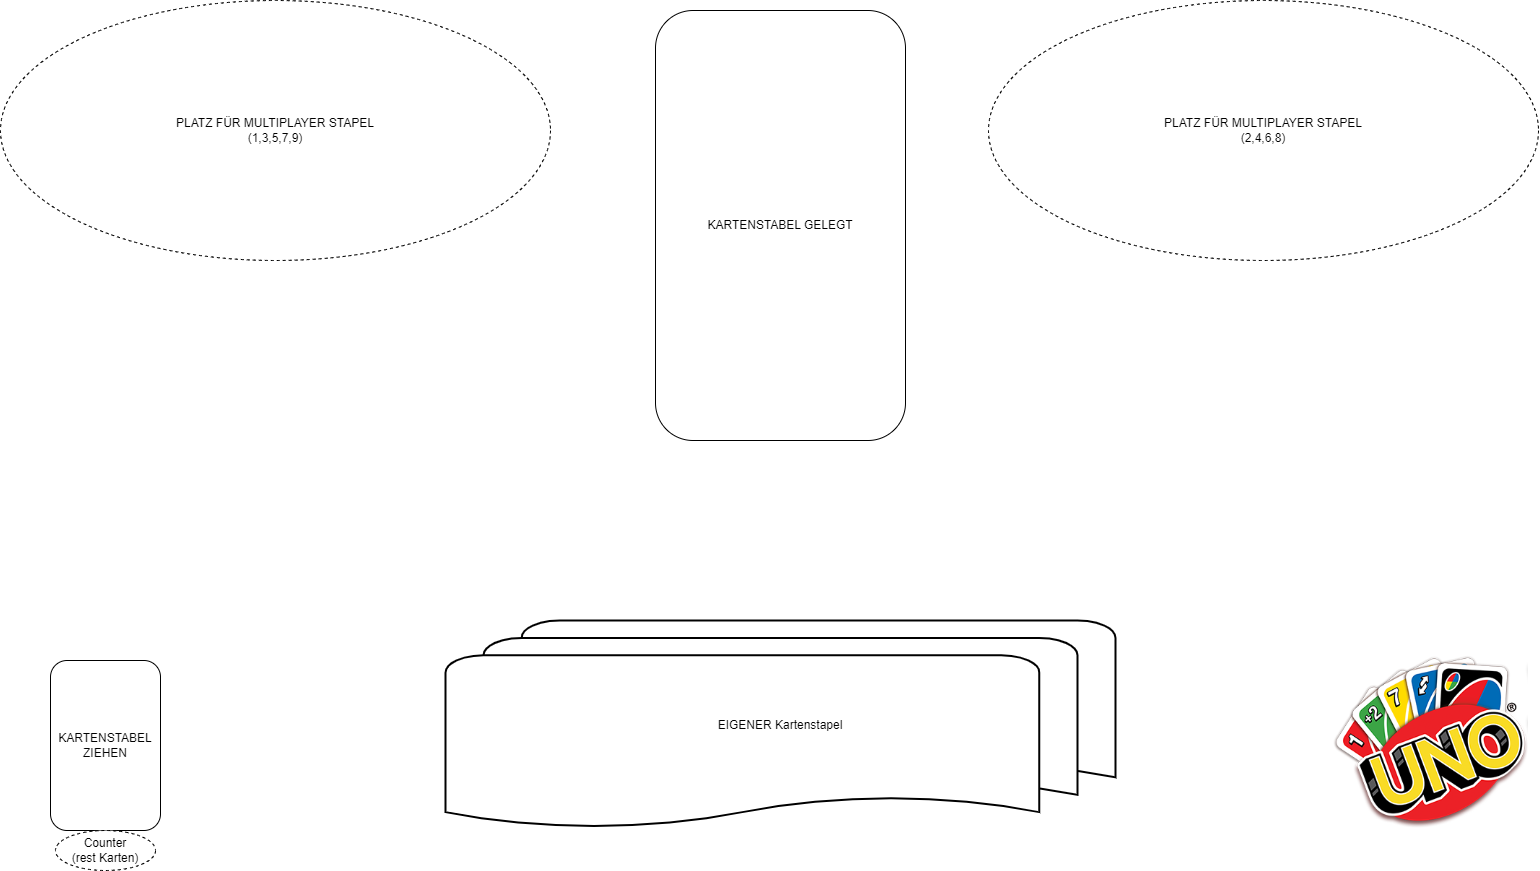
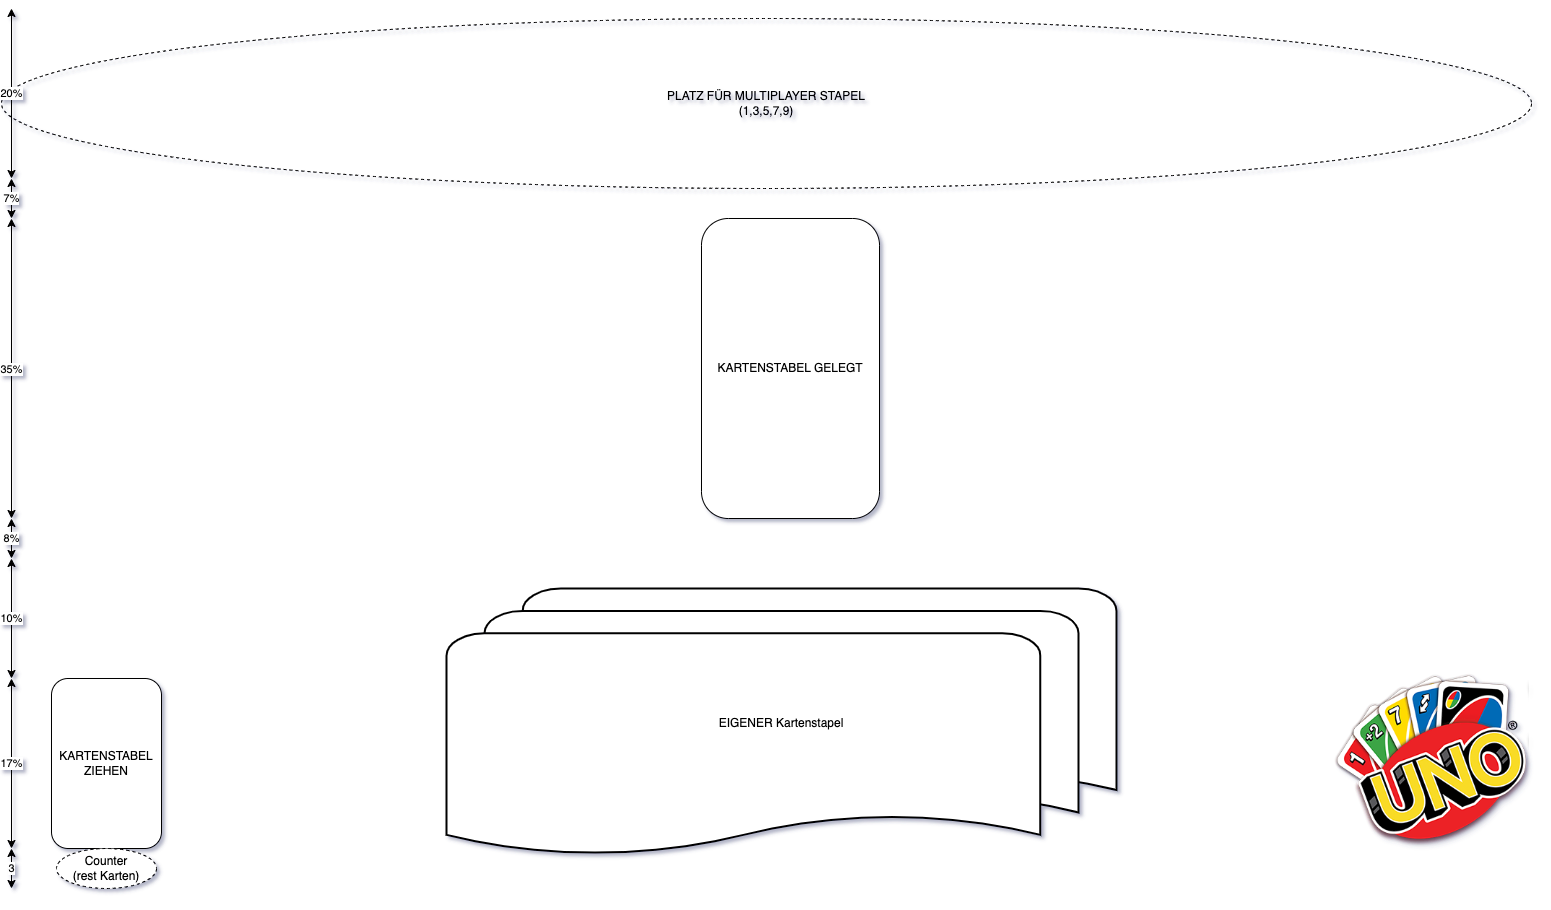
Aufbau png aktualisiert

diff --git a/src/index.js b/src/index.js
@@ -7,6 +7,6 @@ import Lobby from "./common/lobby";
 const root = ReactDOM.createRoot(document.getElementById('root'));
 root.render(
     <React.StrictMode>
-        <Lobby/>
+        <Game/>
     </React.StrictMode>
 );

diff --git a/src/common/lobby.css b/src/common/lobby.css
@@ -21,8 +21,5 @@
     border: 1px solid #1a202c;
     padding: 8px;
     min-width: 64px;
-
-    /*background: transparent;*/
-
     transition: all 0.1s ease-in;
 }
